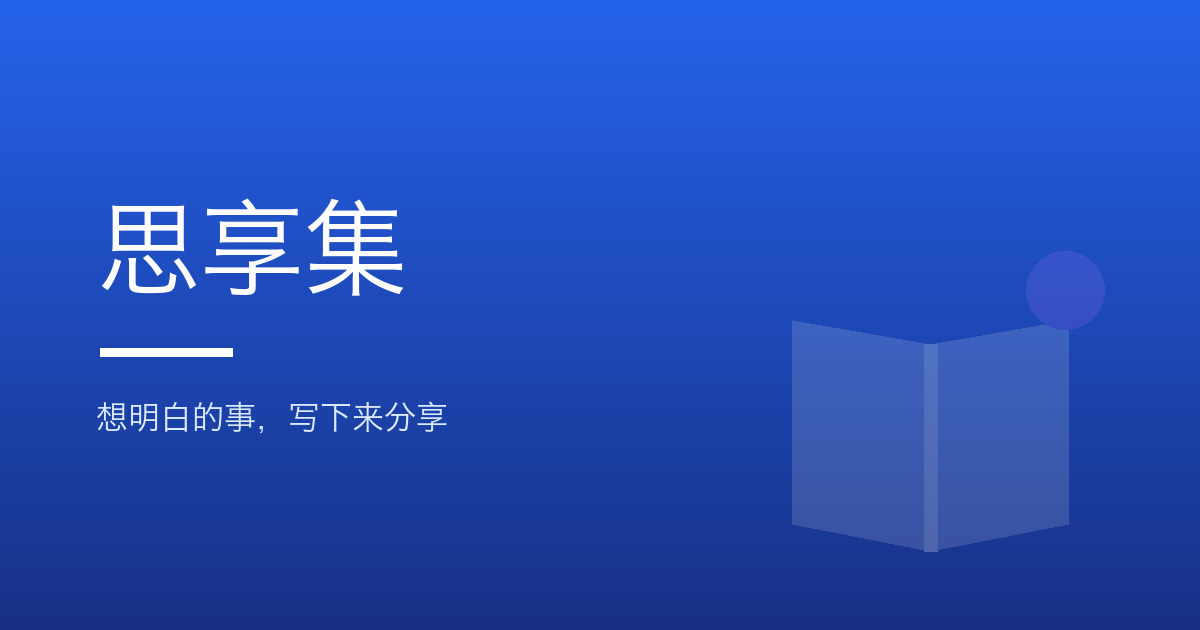
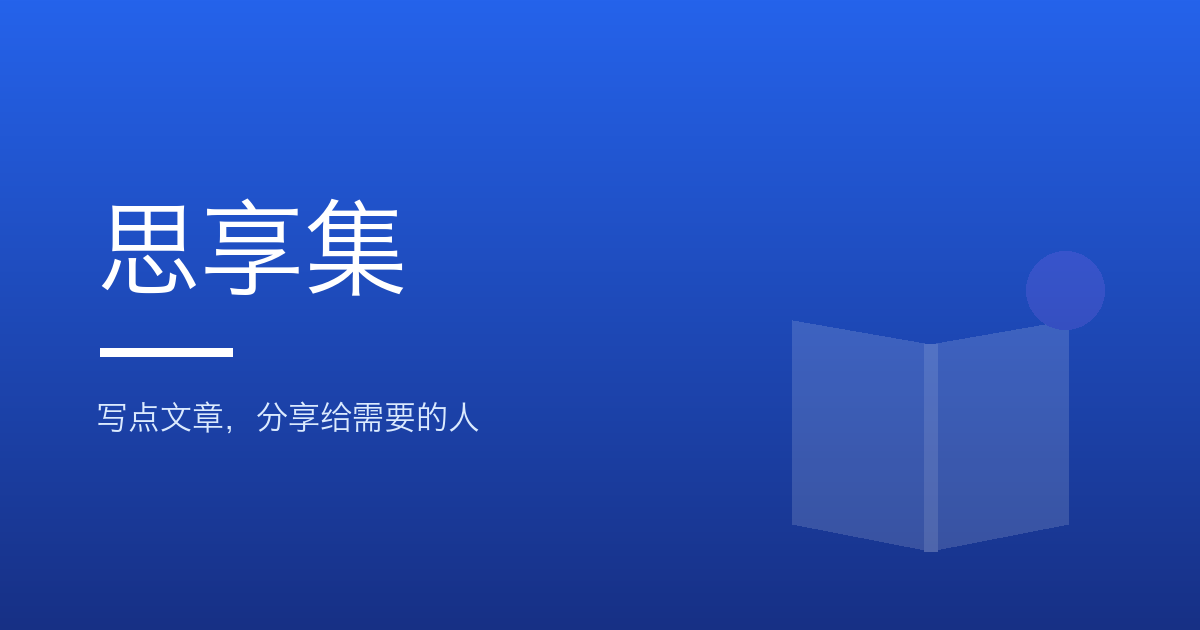
style: 副标题改朴实口语「写点文章，分享给需要的人」，OG 图同步

Changed region(s): [[0.0617, 0.6333, 0.4008, 0.6937]]

diff --git a/index.html b/index.html
@@ -5,12 +5,12 @@
 <meta charset="UTF-8">
 <meta name="viewport" content="width=device-width, initial-scale=1.0">
 <title>思享集</title>
-<meta name="description" content="想明白的事，写下来分享：架构设计、业务分析与工程方法论。">
+<meta name="description" content="写点文章，分享给需要的人。">
 <link rel="icon" href="/assets/img/favicon.ico" sizes="32x32">
 <link rel="icon" href="/assets/img/favicon.svg" type="image/svg+xml">
 <link rel="apple-touch-icon" href="/assets/img/apple-touch-icon.png">
 <meta property="og:title" content="思享集">
-<meta property="og:description" content="想明白的事，写下来分享：架构设计、业务分析与工程方法论。">
+<meta property="og:description" content="写点文章，分享给需要的人。">
 <meta property="og:type" content="website">
 <meta property="og:url" content="https://www.articleshare.cn/">
 <meta property="og:image" content="https://www.articleshare.cn/assets/img/og-image.png">
@@ -22,7 +22,7 @@
 
 <header class="site-header">
   <h1>思享集</h1>
-  <p class="site-desc">想明白的事，写下来分享：架构设计、业务分析与工程方法论。</p>
+  <p class="site-desc">写点文章，分享给需要的人。</p>
 </header>
 
 <main class="article-list">
